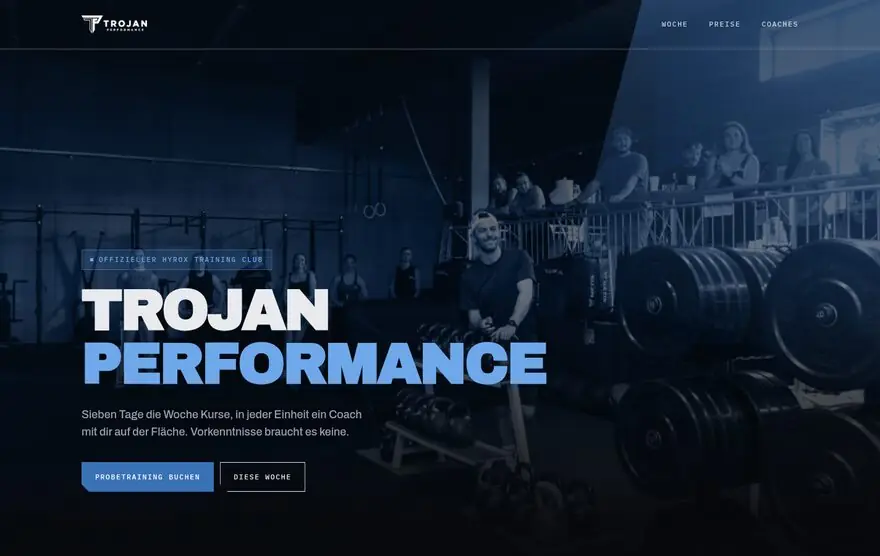
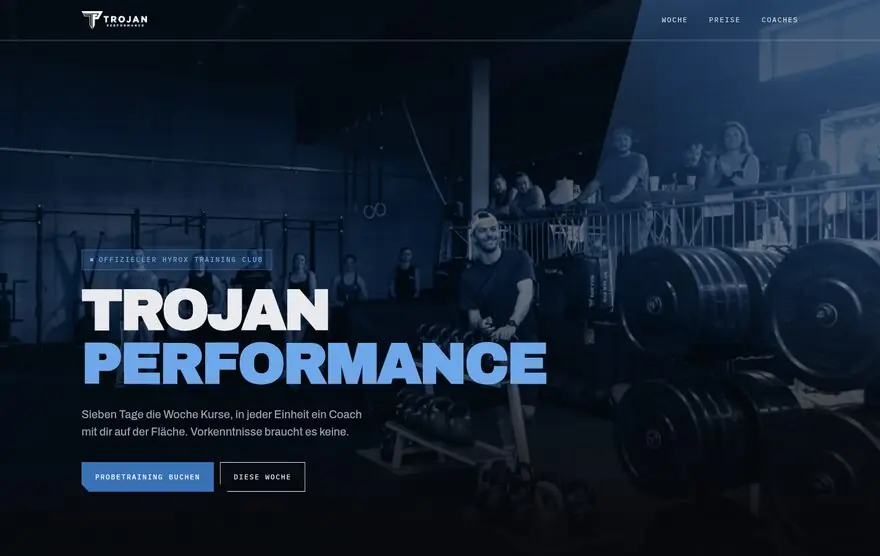
Die Aufforderung tritt erst an, wenn die Bühne weg ist
Beobachtet wird jetzt die Bühne statt eines Pixels am Seitenanfang. Vorher
sprang die Leiste nach einem Pixel Scrollweg um und stellte ihre Aufforderung
neben die, die noch im Bild stand — genau die Doppelung, die weg sollte. Jetzt
gilt: solange irgendein Teil der Bühne sichtbar ist, hält die Leiste sich
zurück; ist die Bühne weg, übernimmt sie. Der negative obere Rand am Beobachter
rechnet die feste Leiste heraus, sonst zählt die Bühne noch als sichtbar,
während sie schon dahinter steckt.

Dabei kam ein echter Fehler heraus: seit der Zustand beim Scrollen wechselt,
können zwei View Transitions kurz hintereinander starten, und der erste lehnt
seine Zusagen ab. Unbehandelt stand das als AbortError in der Konsole. Jetzt
abgefangen — ein überholter Übergang ist kein Fehler, sondern der Normalfall.

Dazu: rotstift trägt sein Logo etwas grösser (20 statt 17 px, ab 720 px 30
statt 26), und die Leiste in puls ist flacher (64 statt 78 px Mindesthöhe).

Claude-Session: https://claude.ai/code/session_011seyKRZKnHmVqc44yjkGAQ

Changed region(s): [[0.0, 0.0, 0.7364, 0.0917], [0.7364, 0.0306, 0.9205, 0.0612]]

diff --git a/puls/index.html b/puls/index.html
@@ -82,7 +82,6 @@ button{font:inherit;color:inherit;background:none;border:0;cursor:pointer}
 .mono{font-family:var(--mono);font-weight:500;font-size:11px;letter-spacing:.18em;text-transform:uppercase}
 .huelle{max-width:1240px;margin-inline:auto;padding-inline:var(--rand)}
 
-.fuehler{position:absolute;top:0;left:0;width:1px;height:1px}
 .skip{position:absolute;left:-9999px;top:0;z-index:200;background:var(--blau);color:#fff;
   font-family:var(--mono);font-size:13px;padding:14px 20px;text-decoration:none}
 .skip:focus{left:0}
@@ -157,8 +156,8 @@ button{font:inherit;color:inherit;background:none;border:0;cursor:pointer}
 .kopf.ueber .btn{display:none}
 .kopf .btn{view-transition-name:kopfcta}
 ::view-transition-group(kopfcta){animation-duration:calc(var(--takt)/6)}
-.kopf-innen{display:flex;align-items:center;justify-content:space-between;gap:16px 30px;
-  min-height:78px;padding-block:9px;flex-wrap:wrap}
+.kopf-innen{display:flex;align-items:center;justify-content:space-between;gap:12px 30px;
+  min-height:64px;padding-block:6px;flex-wrap:wrap}
 .logo{height:29px;width:auto;filter:brightness(0) invert(1)}
 .marke{display:inline-flex;align-items:center;min-height:44px}
 .kopf-nav{display:flex;gap:clamp(16px,2.6vw,34px);list-style:none;margin-left:auto}
@@ -180,7 +179,7 @@ button{font:inherit;color:inherit;background:none;border:0;cursor:pointer}
   .kopf-innen{padding-block:12px 6px;min-height:0}
   .kopf.ueber .kopf-nav{order:0;flex-basis:auto;margin-left:auto;
     justify-content:flex-end;gap:clamp(12px,3.6vw,26px)}
-  .kopf.ueber .kopf-innen{padding-block:9px;min-height:78px}
+  .kopf.ueber .kopf-innen{padding-block:6px;min-height:64px}
 }
 ::view-transition-group(kopfnav){animation-duration:calc(var(--takt)/6)}
 ::view-transition-old(kopfnav),::view-transition-new(kopfnav){
@@ -452,7 +451,6 @@ h1 em,h2 em{font-style:normal;color:var(--blau-hoch)}
 </style>
 </head>
 <body>
-<b class="fuehler" aria-hidden="true"></b>
 <a class="skip" href="#inhalt">Zum Inhalt</a>
 
 <header class="kopf">
@@ -655,7 +653,13 @@ const ruhig=matchMedia('(prefers-reduced-motion: reduce)');
    Funktion, die den Zustand ändert, weiss davon nichts. */
 function wechsel(fn){
   if(ruhig.matches || !document.startViewTransition){ fn(); return; }
-  document.startViewTransition(fn);
+  const t=document.startViewTransition(fn);
+  /* Wird ein Übergang vom nächsten überholt, lehnt er seine Zusagen ab. Das
+     ist kein Fehler, sondern der Normalfall, seit die Kopfleiste beim Scrollen
+     umschaltet: zwei Zustandswechsel kurz hintereinander, der erste wird
+     verworfen. Unbehandelt steht die Ablehnung als AbortError in der Konsole. */
+  const still=()=>{};
+  t.ready.catch(still); t.finished.catch(still); t.updateCallbackDone.catch(still);
 }
 
 /* Der Puls. Zwei Punkte schlagen auf dieser Seite: der eine sagt, dass der
@@ -844,18 +848,20 @@ function kaskade(){
     {duration:TAKT/4,delay:i*(TAKT/16),easing:'cubic-bezier(.2,.8,.3,1)',fill:'backwards'}));
 }
 
-/* Der Fühler ist ein Pixel am Seitenanfang. Verlässt er das Bild, hat der
-   Besucher gescrollt und die Kopfleiste legt ihren Grund an. Ein Beobachter
-   statt eines Scroll-Behandlers: der rechnet nur beim Übertreten, nicht bei
-   jedem Bild. */
+/* Beobachtet wird die Bühne. Solange irgendein Teil von ihr im Bild ist, liegt
+   die Leiste durchsichtig darauf und hält ihre Aufforderung zurück — die steht
+   ja in der Bühne selbst. Erst wenn die Bühne ganz weg ist, legt die Leiste
+   ihren Grund an und übernimmt die Aufforderung. Ein Beobachter statt eines
+   Scroll-Behandlers: der rechnet nur beim Übertreten, nicht bei jedem Bild.
+   Der negative obere Rand rechnet die Leiste selbst heraus. */
 (function(){
-  const fuehler=document.querySelector('.fuehler'), kopf=document.querySelector('.kopf');
+  const fuehler=document.querySelector('.hero'), kopf=document.querySelector('.kopf');
   if(!fuehler||!kopf) return;
   new IntersectionObserver(([e])=>{
     const oben=e.isIntersecting;
     if(kopf.classList.contains('ueber')===oben) return;
     wechsel(()=>kopf.classList.toggle('ueber',oben));
-  }).observe(fuehler);
+  },{rootMargin:'-70px 0px 0px 0px'}).observe(fuehler);
 })();
 
 document.getElementById('plan-woche').addEventListener('click',e=>{

diff --git a/src/trojan-T-puls.src.html b/src/trojan-T-puls.src.html
@@ -80,7 +80,6 @@ button{font:inherit;color:inherit;background:none;border:0;cursor:pointer}
 .mono{font-family:var(--mono);font-weight:500;font-size:11px;letter-spacing:.18em;text-transform:uppercase}
 .huelle{max-width:1240px;margin-inline:auto;padding-inline:var(--rand)}
 
-.fuehler{position:absolute;top:0;left:0;width:1px;height:1px}
 .skip{position:absolute;left:-9999px;top:0;z-index:200;background:var(--blau);color:#fff;
   font-family:var(--mono);font-size:13px;padding:14px 20px;text-decoration:none}
 .skip:focus{left:0}
@@ -155,8 +154,8 @@ button{font:inherit;color:inherit;background:none;border:0;cursor:pointer}
 .kopf.ueber .btn{display:none}
 .kopf .btn{view-transition-name:kopfcta}
 ::view-transition-group(kopfcta){animation-duration:calc(var(--takt)/6)}
-.kopf-innen{display:flex;align-items:center;justify-content:space-between;gap:16px 30px;
-  min-height:78px;padding-block:9px;flex-wrap:wrap}
+.kopf-innen{display:flex;align-items:center;justify-content:space-between;gap:12px 30px;
+  min-height:64px;padding-block:6px;flex-wrap:wrap}
 .logo{height:29px;width:auto;filter:brightness(0) invert(1)}
 .marke{display:inline-flex;align-items:center;min-height:44px}
 .kopf-nav{display:flex;gap:clamp(16px,2.6vw,34px);list-style:none;margin-left:auto}
@@ -178,7 +177,7 @@ button{font:inherit;color:inherit;background:none;border:0;cursor:pointer}
   .kopf-innen{padding-block:12px 6px;min-height:0}
   .kopf.ueber .kopf-nav{order:0;flex-basis:auto;margin-left:auto;
     justify-content:flex-end;gap:clamp(12px,3.6vw,26px)}
-  .kopf.ueber .kopf-innen{padding-block:9px;min-height:78px}
+  .kopf.ueber .kopf-innen{padding-block:6px;min-height:64px}
 }
 ::view-transition-group(kopfnav){animation-duration:calc(var(--takt)/6)}
 ::view-transition-old(kopfnav),::view-transition-new(kopfnav){
@@ -450,7 +449,6 @@ h1 em,h2 em{font-style:normal;color:var(--blau-hoch)}
 </style>
 </head>
 <body>
-<b class="fuehler" aria-hidden="true"></b>
 <a class="skip" href="#inhalt">Zum Inhalt</a>
 
 <header class="kopf">
@@ -653,7 +651,13 @@ const ruhig=matchMedia('(prefers-reduced-motion: reduce)');
    Funktion, die den Zustand ändert, weiss davon nichts. */
 function wechsel(fn){
   if(ruhig.matches || !document.startViewTransition){ fn(); return; }
-  document.startViewTransition(fn);
+  const t=document.startViewTransition(fn);
+  /* Wird ein Übergang vom nächsten überholt, lehnt er seine Zusagen ab. Das
+     ist kein Fehler, sondern der Normalfall, seit die Kopfleiste beim Scrollen
+     umschaltet: zwei Zustandswechsel kurz hintereinander, der erste wird
+     verworfen. Unbehandelt steht die Ablehnung als AbortError in der Konsole. */
+  const still=()=>{};
+  t.ready.catch(still); t.finished.catch(still); t.updateCallbackDone.catch(still);
 }
 
 /* Der Puls. Zwei Punkte schlagen auf dieser Seite: der eine sagt, dass der
@@ -842,18 +846,20 @@ function kaskade(){
     {duration:TAKT/4,delay:i*(TAKT/16),easing:'cubic-bezier(.2,.8,.3,1)',fill:'backwards'}));
 }
 
-/* Der Fühler ist ein Pixel am Seitenanfang. Verlässt er das Bild, hat der
-   Besucher gescrollt und die Kopfleiste legt ihren Grund an. Ein Beobachter
-   statt eines Scroll-Behandlers: der rechnet nur beim Übertreten, nicht bei
-   jedem Bild. */
+/* Beobachtet wird die Bühne. Solange irgendein Teil von ihr im Bild ist, liegt
+   die Leiste durchsichtig darauf und hält ihre Aufforderung zurück — die steht
+   ja in der Bühne selbst. Erst wenn die Bühne ganz weg ist, legt die Leiste
+   ihren Grund an und übernimmt die Aufforderung. Ein Beobachter statt eines
+   Scroll-Behandlers: der rechnet nur beim Übertreten, nicht bei jedem Bild.
+   Der negative obere Rand rechnet die Leiste selbst heraus. */
 (function(){
-  const fuehler=document.querySelector('.fuehler'), kopf=document.querySelector('.kopf');
+  const fuehler=document.querySelector('.hero'), kopf=document.querySelector('.kopf');
   if(!fuehler||!kopf) return;
   new IntersectionObserver(([e])=>{
     const oben=e.isIntersecting;
     if(kopf.classList.contains('ueber')===oben) return;
     wechsel(()=>kopf.classList.toggle('ueber',oben));
-  }).observe(fuehler);
+  },{rootMargin:'-70px 0px 0px 0px'}).observe(fuehler);
 })();
 
 document.getElementById('plan-woche').addEventListener('click',e=>{

diff --git a/rotstift/index.html b/rotstift/index.html
@@ -50,7 +50,6 @@ button{font:inherit;color:inherit;background:none;border:0;cursor:pointer}
 .huelle{max-width:1200px;margin:0 auto;padding-left:var(--rand);padding-right:var(--rand)}
 
 /* ---------- Sprunglink ---------- */
-.fuehler{position:absolute;top:0;left:0;width:1px;height:1px}
 .skip{
   position:absolute;left:-9999px;top:0;z-index:99;
   font-family:var(--mono);font-size:.85rem;
@@ -66,8 +65,8 @@ button{font:inherit;color:inherit;background:none;border:0;cursor:pointer}
 }
 .kopf-innen{display:flex;align-items:center;justify-content:space-between;min-height:54px}
 .marke{display:inline-flex;align-items:center;min-height:44px}
-.marke img{height:17px;width:auto}
-@media(min-width:720px){.marke img{height:26px}}
+.marke img{height:20px;width:auto}
+@media(min-width:720px){.marke img{height:30px}}
 .kopf nav{display:flex;gap:.1rem}
 .kopf nav a{
   display:inline-flex;align-items:center;min-height:44px;padding:0 .55rem;
@@ -417,7 +416,6 @@ figure.bild img{width:100%;filter:grayscale(1) contrast(1.1) brightness(1.04)}
 </style>
 </head>
 <body>
-<b class="fuehler" aria-hidden="true"></b>
 <a class="skip" href="#inhalt">Zum Inhalt springen</a>
 
 <header class="kopf">
@@ -855,10 +853,12 @@ function zusammenfassung(evts){
   return teile.join(' · ');
 }
 
-/* Fühler von einem Pixel am Seitenanfang: solange er im Bild ist, steht der
-   Besucher oben und die Leiste hält ihre Aufforderung zurück. */
+/* Beobachtet wird die Bühne, nicht der Seitenanfang: erst wenn sie ganz aus
+   dem Bild ist, ist die Aufforderung darin auch weg und die Leiste darf sie
+   übernehmen. Der negative obere Rand rechnet die feste Leiste heraus, sonst
+   gilt die Bühne noch als sichtbar, während sie schon dahinter steckt. */
 (function(){
-  var f=document.querySelector('.fuehler'), k=document.querySelector('.kopf');
+  var f=document.querySelector('.hero'), k=document.querySelector('.kopf');
   if(!f||!k||!('IntersectionObserver' in window))return;
   var probe=k.querySelector('nav a[href="#probe"]');
   function messen(){
@@ -869,7 +869,8 @@ function zusammenfassung(evts){
   messen();
   addEventListener('resize',messen,{passive:true});
   if(document.fonts&&document.fonts.ready)document.fonts.ready.then(messen);
-  new IntersectionObserver(function(e){k.classList.toggle('ueber',e[0].isIntersecting);}).observe(f);
+  new IntersectionObserver(function(e){k.classList.toggle('ueber',e[0].isIntersecting);},
+    {rootMargin:'-60px 0px 0px 0px'}).observe(f);
 })();
 
 function zeichnen(evts,live){

diff --git a/src/trojan-H-rotstift.src.html b/src/trojan-H-rotstift.src.html
@@ -48,7 +48,6 @@ button{font:inherit;color:inherit;background:none;border:0;cursor:pointer}
 .huelle{max-width:1200px;margin:0 auto;padding-left:var(--rand);padding-right:var(--rand)}
 
 /* ---------- Sprunglink ---------- */
-.fuehler{position:absolute;top:0;left:0;width:1px;height:1px}
 .skip{
   position:absolute;left:-9999px;top:0;z-index:99;
   font-family:var(--mono);font-size:.85rem;
@@ -64,8 +63,8 @@ button{font:inherit;color:inherit;background:none;border:0;cursor:pointer}
 }
 .kopf-innen{display:flex;align-items:center;justify-content:space-between;min-height:54px}
 .marke{display:inline-flex;align-items:center;min-height:44px}
-.marke img{height:17px;width:auto}
-@media(min-width:720px){.marke img{height:26px}}
+.marke img{height:20px;width:auto}
+@media(min-width:720px){.marke img{height:30px}}
 .kopf nav{display:flex;gap:.1rem}
 .kopf nav a{
   display:inline-flex;align-items:center;min-height:44px;padding:0 .55rem;
@@ -415,7 +414,6 @@ figure.bild img{width:100%;filter:grayscale(1) contrast(1.1) brightness(1.04)}
 </style>
 </head>
 <body>
-<b class="fuehler" aria-hidden="true"></b>
 <a class="skip" href="#inhalt">Zum Inhalt springen</a>
 
 <header class="kopf">
@@ -853,10 +851,12 @@ function zusammenfassung(evts){
   return teile.join(' · ');
 }
 
-/* Fühler von einem Pixel am Seitenanfang: solange er im Bild ist, steht der
-   Besucher oben und die Leiste hält ihre Aufforderung zurück. */
+/* Beobachtet wird die Bühne, nicht der Seitenanfang: erst wenn sie ganz aus
+   dem Bild ist, ist die Aufforderung darin auch weg und die Leiste darf sie
+   übernehmen. Der negative obere Rand rechnet die feste Leiste heraus, sonst
+   gilt die Bühne noch als sichtbar, während sie schon dahinter steckt. */
 (function(){
-  var f=document.querySelector('.fuehler'), k=document.querySelector('.kopf');
+  var f=document.querySelector('.hero'), k=document.querySelector('.kopf');
   if(!f||!k||!('IntersectionObserver' in window))return;
   var probe=k.querySelector('nav a[href="#probe"]');
   function messen(){
@@ -867,7 +867,8 @@ function zusammenfassung(evts){
   messen();
   addEventListener('resize',messen,{passive:true});
   if(document.fonts&&document.fonts.ready)document.fonts.ready.then(messen);
-  new IntersectionObserver(function(e){k.classList.toggle('ueber',e[0].isIntersecting);}).observe(f);
+  new IntersectionObserver(function(e){k.classList.toggle('ueber',e[0].isIntersecting);},
+    {rootMargin:'-60px 0px 0px 0px'}).observe(f);
 })();
 
 function zeichnen(evts,live){
